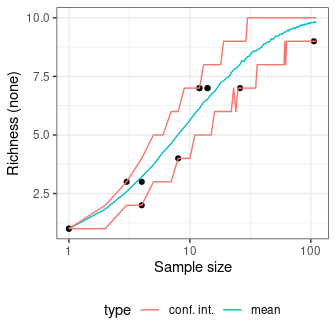
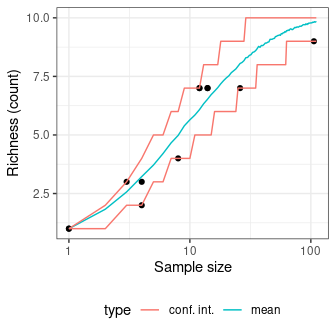
Update README

diff --git a/README.md b/README.md
@@ -36,15 +36,13 @@ JOSS](https://joss.theoj.org/papers/10.21105/joss.01821/status.svg)](https://doi
 
 ## Overview
 
-An easy way to examine archaeological count data. **tabula** provides a
-convenient and reproducible toolkit for relative dating by matrix
-seriation (reciprocal ranking, CA-based seriation). This package
-provides several tests and measures of diversity: heterogeneity and
-evenness (Brillouin, Shannon, Simpson, etc.), richness and rarefaction
-(Chao1, Chao2, ACE, ICE, etc.), turnover and similarity
-(Brainerd-Robinson, etc.). The package make it easy to visualize count
-data and statistical thresholds: rank vs. abundance plots, heatmaps,
-Ford (1962) and Bertin (1977) diagrams.
+An easy way to examine archaeological count data. **tabula** provides
+several tests and measures of diversity: heterogeneity and evenness
+(Brillouin, Shannon, Simpson, etc.), richness and rarefaction (Chao1,
+Chao2, ACE, ICE, etc.), turnover and similarity (Brainerd-Robinson,
+etc.). The package make it easy to visualize count data and statistical
+thresholds: rank vs. abundance plots, heatmaps, Ford (1962) and Bertin
+(1977) diagrams.
 
 [**kairos**](https://www.tesselle.org/kairos/) is a companion package to
 **tabula** that provides functions for chronological modeling and dating
@@ -90,18 +88,13 @@ remotes::install_github("tesselle/tabula")
 
 ``` r
 ## Load packages
-library(tabula)
-
 library(folio) # Datasets
 library(khroma) # Color scales
 library(magrittr) # Pipes
 library(ggplot2)
-```
 
-**tabula** uses a set of S4 classes that represent different special
-types of matrix. Please refer to the documentation of the
-[**arkhe**](https://github.com/tesselle/arkhe) package where these
-classes are defined.
+library(tabula)
+```
 
 *It assumes that you keep your data tidy*: each variable (type/taxa)
 must be saved in its own column and each observation (sample/case) must
@@ -120,9 +113,8 @@ statistic threshold (including B. Desachy’s
 ``` r
 ## Bertin matrix with variables scaled to 0-1 and the variable mean as threshold
 scale_01 <- function(x) (x - min(x)) / (max(x) - min(x))
-mississippi %>%
-  as_count() %>%
-  plot_bertin(threshold = mean, scale = scale_01) +
+
+plot_bertin(mississippi, threshold = mean, scale = scale_01) +
   khroma::scale_fill_vibrant(name = "Mean")
 ```
 
@@ -130,9 +122,7 @@ mississippi %>%
 
 ``` r
 ## Ford diagram
-mississippi %>%
-  as_count() %>%
-  plot_ford()
+plot_ford(mississippi)
 ```
 
 <img src="man/figures/README-ford-1.png" style="display: block; margin: auto;" />
@@ -143,46 +133,12 @@ Spot matrix[^1] allows direct examination of data:
 ## Plot co-occurrence of types
 ## (i.e. how many times (percent) each pairs of taxa occur together 
 ## in at least one sample.)
-mississippi %>%
-  as_occurrence() %>%
-  plot_spot() +
+plot_spot(mississippi, freq = TRUE) +
   ggplot2::labs(size = "Co-occurrence", colour = "Co-occurrence") +
   khroma::scale_colour_YlOrBr()
 ```
 
 <img src="man/figures/README-plot-occ-1.png" style="display: block; margin: auto;" />
-
-### Seriation
-
-``` r
-## Build an incidence matrix with random data
-set.seed(12345)
-binary <- sample(0:1, 400, TRUE, c(0.6, 0.4))
-incidence <- IncidenceMatrix(data = binary, nrow = 20)
-
-## Get seriation order on rows and columns
-## Correspondance analysis-based seriation
-(indices <- seriate_rank(incidence, margin = c(1, 2)))
-#> <PermutationOrder: reciprocal ranking>
-#> Permutation order for matrix seriation:
-#> - Row order: 1 4 20 3 9 16 19 10 13 2 11 7 17 5 6 18 14 15 8 12...
-#> - Column order: 1 16 9 4 8 14 3 20 13 2 6 18 7 17 5 11 19 12 15 10...
-
-## Permute matrix rows and columns
-incidence2 <- permute(incidence, indices)
-```
-
-``` r
-## Plot matrix
-autoplot(incidence) + 
-  ggplot2::labs(title = "Original matrix") +
-  ggplot2::scale_fill_manual(values = c("TRUE" = "black", "FALSE" = "white"))
-autoplot(incidence2) + 
-  ggplot2::labs(title = "Rearranged matrix") +
-  ggplot2::scale_fill_manual(values = c("TRUE" = "black", "FALSE" = "white"))
-```
-
-![](man/figures/README-permute-incidence-1.png)![](man/figures/README-permute-incidence-2.png)
 
 ### Diversity
 
@@ -193,50 +149,25 @@ across the sample) can also be computed, as well as *richness* and
 *rarefaction*.
 
 ``` r
-mississippi %>%
-  as_count() %>%
-  index_heterogeneity(method = "shannon")
-#> <HeterogeneityIndex: shannon>
-#>             size     index
-#> 10-P-1       153 1.2027955
-#> 11-N-9       758 0.7646565
-#> 11-N-1      1303 0.9293974
-#> 11-O-10      638 0.8228576
-#> 11-N-4      1266 0.7901428
-#> 13-N-5        79 0.9998430
-#> 13-N-4       241 1.2051989
-#> 13-N-16      171 1.1776226
-#> 13-O-11      128 1.1533432
-#> 13-O-10      226 1.2884172
-#> 13-P-1       360 1.1725355
-#> 13-P-8       192 1.5296294
-#> 13-P-10       91 1.7952443
-#> 13-O-7      1233 1.1627477
-#> 13-O-5      1709 1.0718463
-#> 13-N-21      614 0.9205717
-#> 12-O-5       424 1.1751002
-#> Holden Lake  360 0.7307620
-#> 13-N-15     1300 1.1270126
-#> 12-N-3       983 1.0270291
+heterogeneity(mississippi, method = "shannon")
+#>  [1] 1.2027955 0.7646565 0.9293974 0.8228576 0.7901428 0.9998430 1.2051989
+#>  [8] 1.1776226 1.1533432 1.2884172 1.1725355 1.5296294 1.7952443 1.1627477
+#> [15] 1.0718463 0.9205717 1.1751002 0.7307620 1.1270126 1.0270291
 ```
 
 Measure diversity by comparing to simulated assemblages:
 
 ``` r
 ## Data from Conkey 1980, Kintigh 1989, p. 28
-chevelon <- as_count(chevelon)
+chevelon %>%
+  heterogeneity(method = "shannon") %>%
+  simulate() %>%
+  plot()
 
-sim_heterogeneity <- chevelon %>%
-  index_heterogeneity(method = "shannon") %>%
-  simulate()
-
-plot(sim_heterogeneity)
-
-sim_richness <- chevelon %>%
-  index_richness(method = "none") %>%
-  simulate()
-
-plot(sim_richness)
+chevelon %>%
+  richness(method = "count") %>%
+  simulate() %>%
+  plot()
 ```
 
 ![](man/figures/README-sample-size-1.png)![](man/figures/README-sample-size-2.png)
@@ -252,11 +183,9 @@ of sites:
 ``` r
 ## Calculate the Brainerd-Robinson index
 ## Plot the similarity matrix
-idx_brainerd <- mississippi %>%
-  as_count() %>%
-  similarity(method = "brainerd")
+s <- similarity(mississippi, method = "brainerd")
 
-plot_spot(idx_brainerd) +
+plot_spot(s) +
   khroma::scale_colour_iridescent(name = "brainerd")
 ```
 
@@ -267,6 +196,26 @@ plot_spot(idx_brainerd) +
 Please note that the **tabula** project is released with a [Contributor
 Code of Conduct](https://www.tesselle.org/conduct.html). By contributing
 to this project, you agree to abide by its terms.
+
+## References
+
+<div id="refs" class="references csl-bib-body hanging-indent">
+
+<div id="ref-bertin1977" class="csl-entry">
+
+Bertin, Jacques. 1977. *La Graphique Et Le Traitement Graphique de
+l’information*. Nouvelle Bibliothèque Scientifique. Paris: Flammarion.
+
+</div>
+
+<div id="ref-ford1962" class="csl-entry">
+
+Ford, J. A. 1962. *A Quantitative Method for Deriving Cultural
+Chronology*. Technical Manual 1. Washington, DC: Pan American Union.
+
+</div>
+
+</div>
 
 [^1]: Adapted from Dan Gopstein’s original
     [idea](https://dgopstein.github.io/articles/spot-matrix/).
